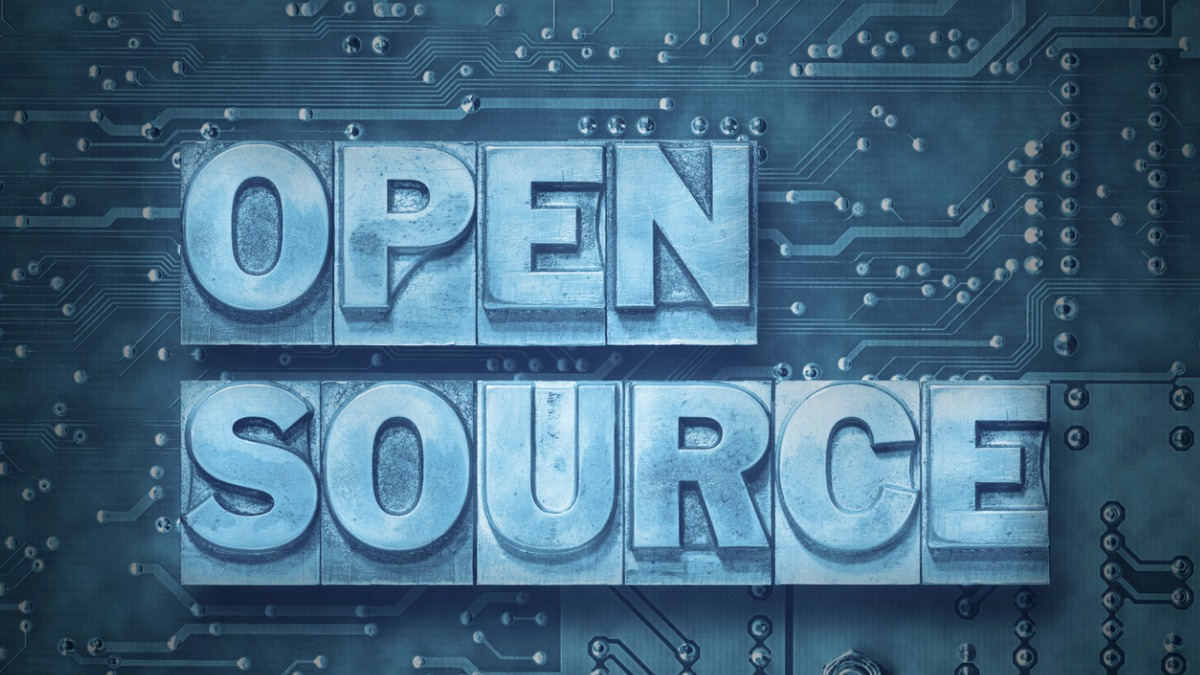
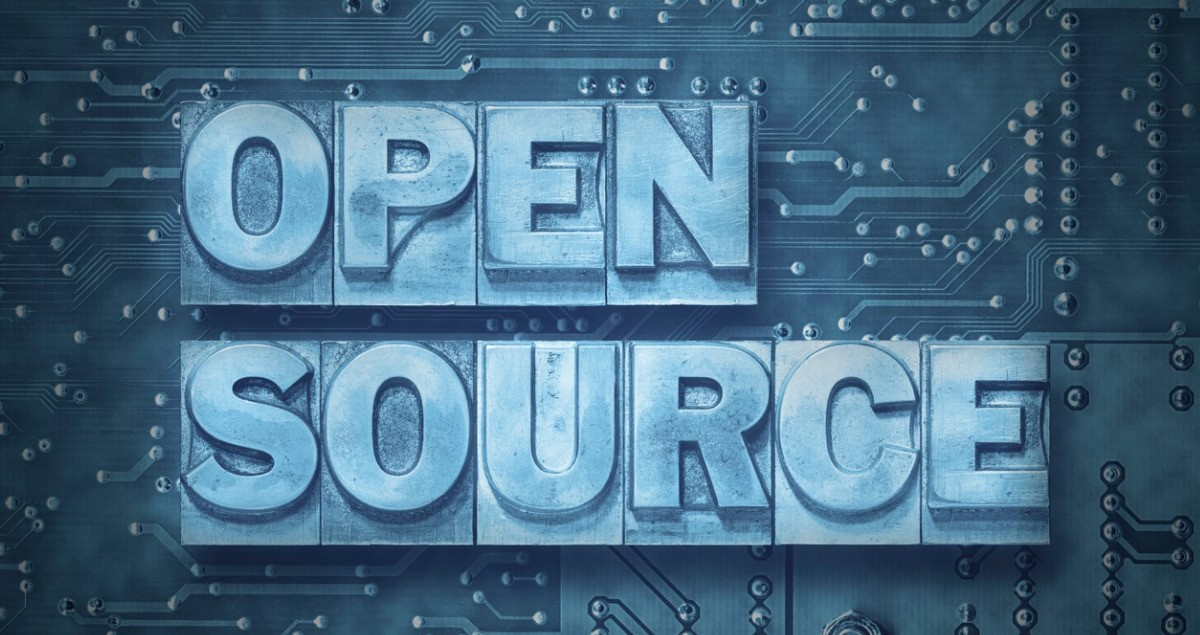
modified:   All_Images/AppFinal.jpg 	modified:   All_Images/OpenFinal.jpg 	modified:   All_Images/WebFinal.jpg 	modified:   index.html

diff --git a/index.html b/index.html
@@ -310,13 +310,13 @@
             <div id="carouselExampleControls" class="carousel slide" data-bs-ride="carousel">
                 <div class="carousel-inner">
                     <div class="carousel-item active">
-                        <img src="./All_Images/WebFinal.jpg" class="d-block w-100" alt="...">
+                        <img src="./All_Images/WebFinal.jpg" class="d-block w-100 h-100" alt="...">
                     </div>
                     <div class="carousel-item">
-                        <img src="./All_Images/AppFinal.jpg" class="d-block w-100" alt="...">
+                        <img src="./All_Images/AppFinal.jpg" class="d-block w-100 h-100" alt="...">
                     </div>
                     <div class="carousel-item">
-                        <img src="./All_Images/OpenFinal.jpg" class="d-block w-100" alt="...">
+                        <img src="./All_Images/OpenFinal.jpg" class="d-block w-100 h-100" alt="...">
                     </div>
                 </div>
                 <button class="carousel-control-prev" type="button" data-bs-target="#carouselExampleControls"
